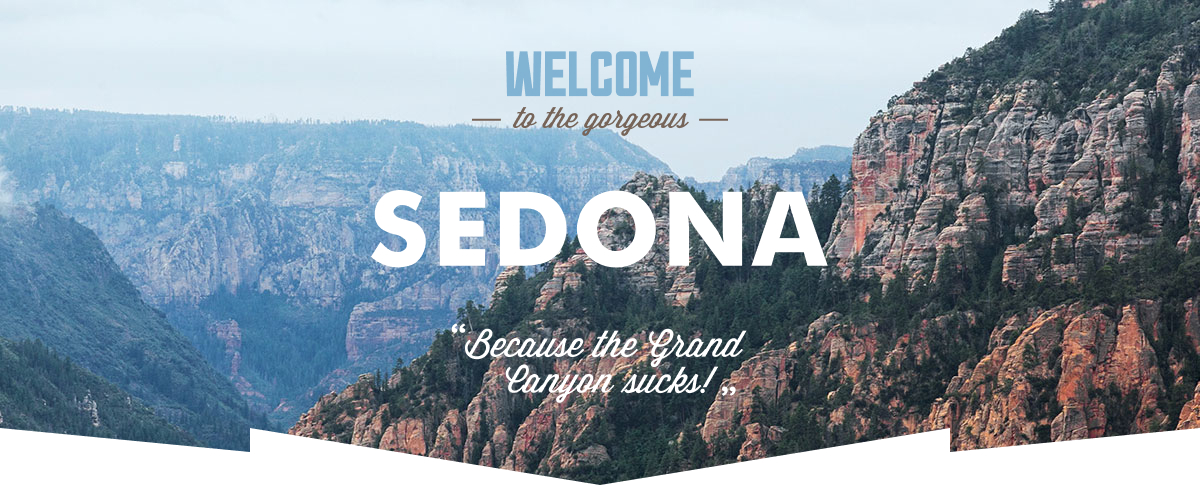
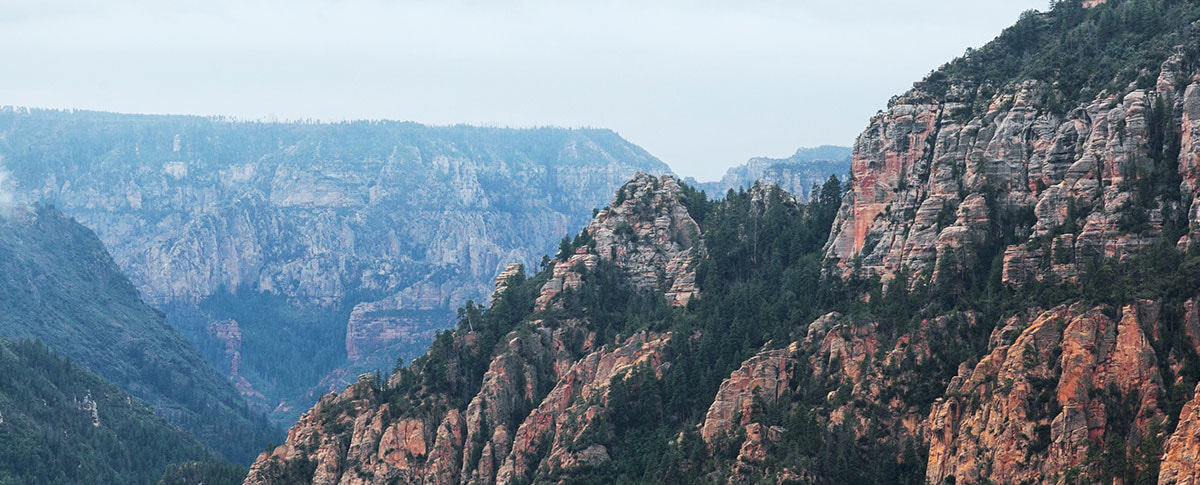
Изменяет img в блоке hero и корректирует стили

diff --git a/styles/style.css b/styles/style.css
@@ -19,7 +19,7 @@ body{
   font-size: 18px;
   line-height: 21px;
   color: #333333;
-  background-color: #F2F2F2;
+  background-color: #FFFFFF;
 }
 
 .visually-hidden {
@@ -90,6 +90,32 @@ body{
 
 .main-inner{
   background-color: #FFFFFF;
+}
+
+.hero-images{
+  display: block;
+  margin: 0 auto;
+  padding-top: 51px;
+}
+
+.hero-images-wrapp{
+  position: relative;
+  background-image: url(../images/background/index-background.jpg);
+  background-repeat: no-repeat;
+  width: 1200px;
+  height: 485px;
+}
+
+.hero-images-wrapp::before{
+  position: absolute;
+  content: '';
+  bottom: 0;
+  left: 0;
+  right: 0;
+  width: 1200px;
+  height: 57px;
+  background-image: url(../images/background/decoration-bg.svg);
+  background-repeat: no-repeat;
 }
 
 .hero-subtitle{

diff --git a/index.html b/index.html
@@ -59,7 +59,9 @@
         <h1 class="visually-hidden">
           Отдых в Седоне
         </h1>
-        <img src="images/background/index-background.jpg" width="1200" height="485" alt="Добро пожаловать в Седону">
+        <div class="hero-images-wrapp">
+          <img class="hero-images" src="images/welcome-sedona-hero.svg" width="457" height="352" alt="Добро пожаловать в Седону">
+        </div>
       </section>
       <section class="advantages">
         <h2 class="hero-subtitle">
